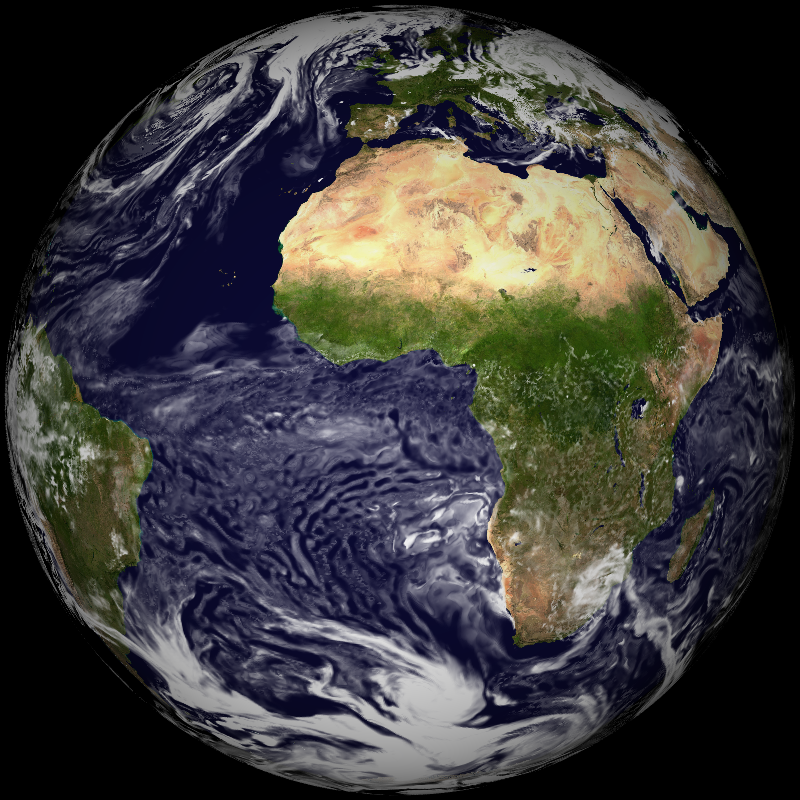
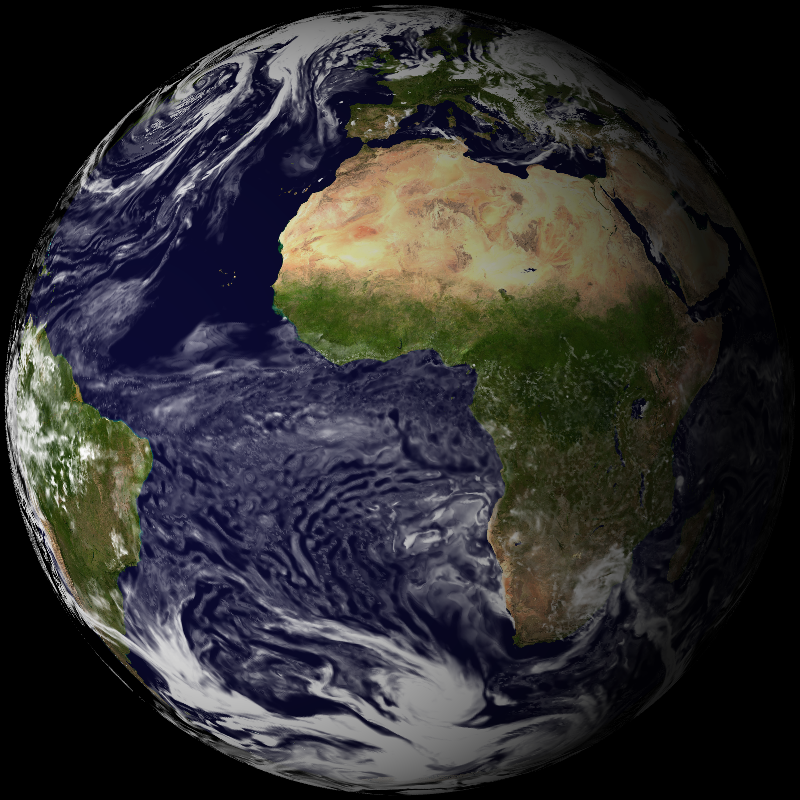
Update test

diff --git a/glgrib_options.h b/glgrib_options.h
@@ -1068,6 +1068,7 @@ public:
     DESC (lon,               Light longitude);
     DESC (lat,               Light latitude);
     DESC (rotate.on,         Make sunlight move);
+    DESC (rotate.rate,       Rate of rotation : angle/frame);
     DESC (date,              Date for sunlight position);
     DESC (night,             Fraction of light during for night);
   }
@@ -1080,6 +1081,7 @@ public:
   struct
   {
     bool on = false;
+    float rate = 1.0f;
   } rotate;
   float  lon  = 0.0f;
   float  lat  = 0.0f;
@@ -1206,6 +1208,7 @@ public:
   {
     DESC (lon_at_hour,         Set longitude at solar time);
     DESC (rotate_earth.on,     Make earth rotate);
+    DESC (rotate_earth.rate,   Rate of rotation : angle/frame);
     INCLUDE (light);
     INCLUDE (travelling);
     INCLUDE (interpolation);
@@ -1219,6 +1222,7 @@ public:
   struct
   {
     bool on  = false;
+    float rate = 1.0f;
   } rotate_earth;
   float   lon_at_hour = -1.0f;
   glgrib_options_light light;  

diff --git a/glgrib_scene.cc b/glgrib_scene.cc
@@ -123,7 +123,7 @@ const glgrib_option_date * glgrib_scene::get_date ()
 void glgrib_scene::update_light ()
 {
   if (d.opts.scene.light.rotate.on)
-    d.opts.scene.light.lon -= 1.;
+    d.opts.scene.light.lon -= d.opts.scene.light.rotate.rate;
 
   const glgrib_option_date * date = nullptr;
 
@@ -161,7 +161,7 @@ void glgrib_scene::update_view ()
   glgrib_options_view o = d.view.getOptions ();
 
   if (d.opts.scene.rotate_earth.on)
-    o.lon += 1.;
+    o.lon += d.opts.scene.rotate_earth.rate;
   if (d.opts.scene.travelling.on)
     {
       float frames = d.opts.scene.travelling.frames;

diff --git a/README.md b/README.md
@@ -317,16 +317,17 @@ Display GRIB2 fields with OpenGL. Raster, contour, vector, colorbar, mapscale, c
     1.03 --field[0].palette.name cloud_auto --field[0].no_value_pointer.on 
 ```
 ## Display field in offscreen mode                                   -- offscreen
-![](test.ref/offscreen/TEST_0000.png)
+![](test.ref/offscreen/TEST.gif)
 
 ```
     --landscape.on --landscape.geometry_path testdata/t1198c2.2/Z.grb 
-    --window.offscreen.on --window.offscreen.frames 10 
+    --window.offscreen.on --window.offscreen.frames 36 
     --scene.light.rotate.on --scene.light.on --field[0].path 
     testdata/t1198c2.2/SURFNEBUL.BASSE.grb 
     testdata/t1198c2.2/SURFNEBUL.MOYENN.grb 
     testdata/t1198c2.2/SURFNEBUL.HAUTE.grb --field[0].scale 1.03 1.03 1.03 
     --field[0].palette.name cloud_auto cloud_auto cloud_auto 
+    --scene.light.rotate.rate 10 
 ```
 ## Display field with options in file                                -- optionsfile
 ![](test.ref/optionsfile/TEST_0000.png)
